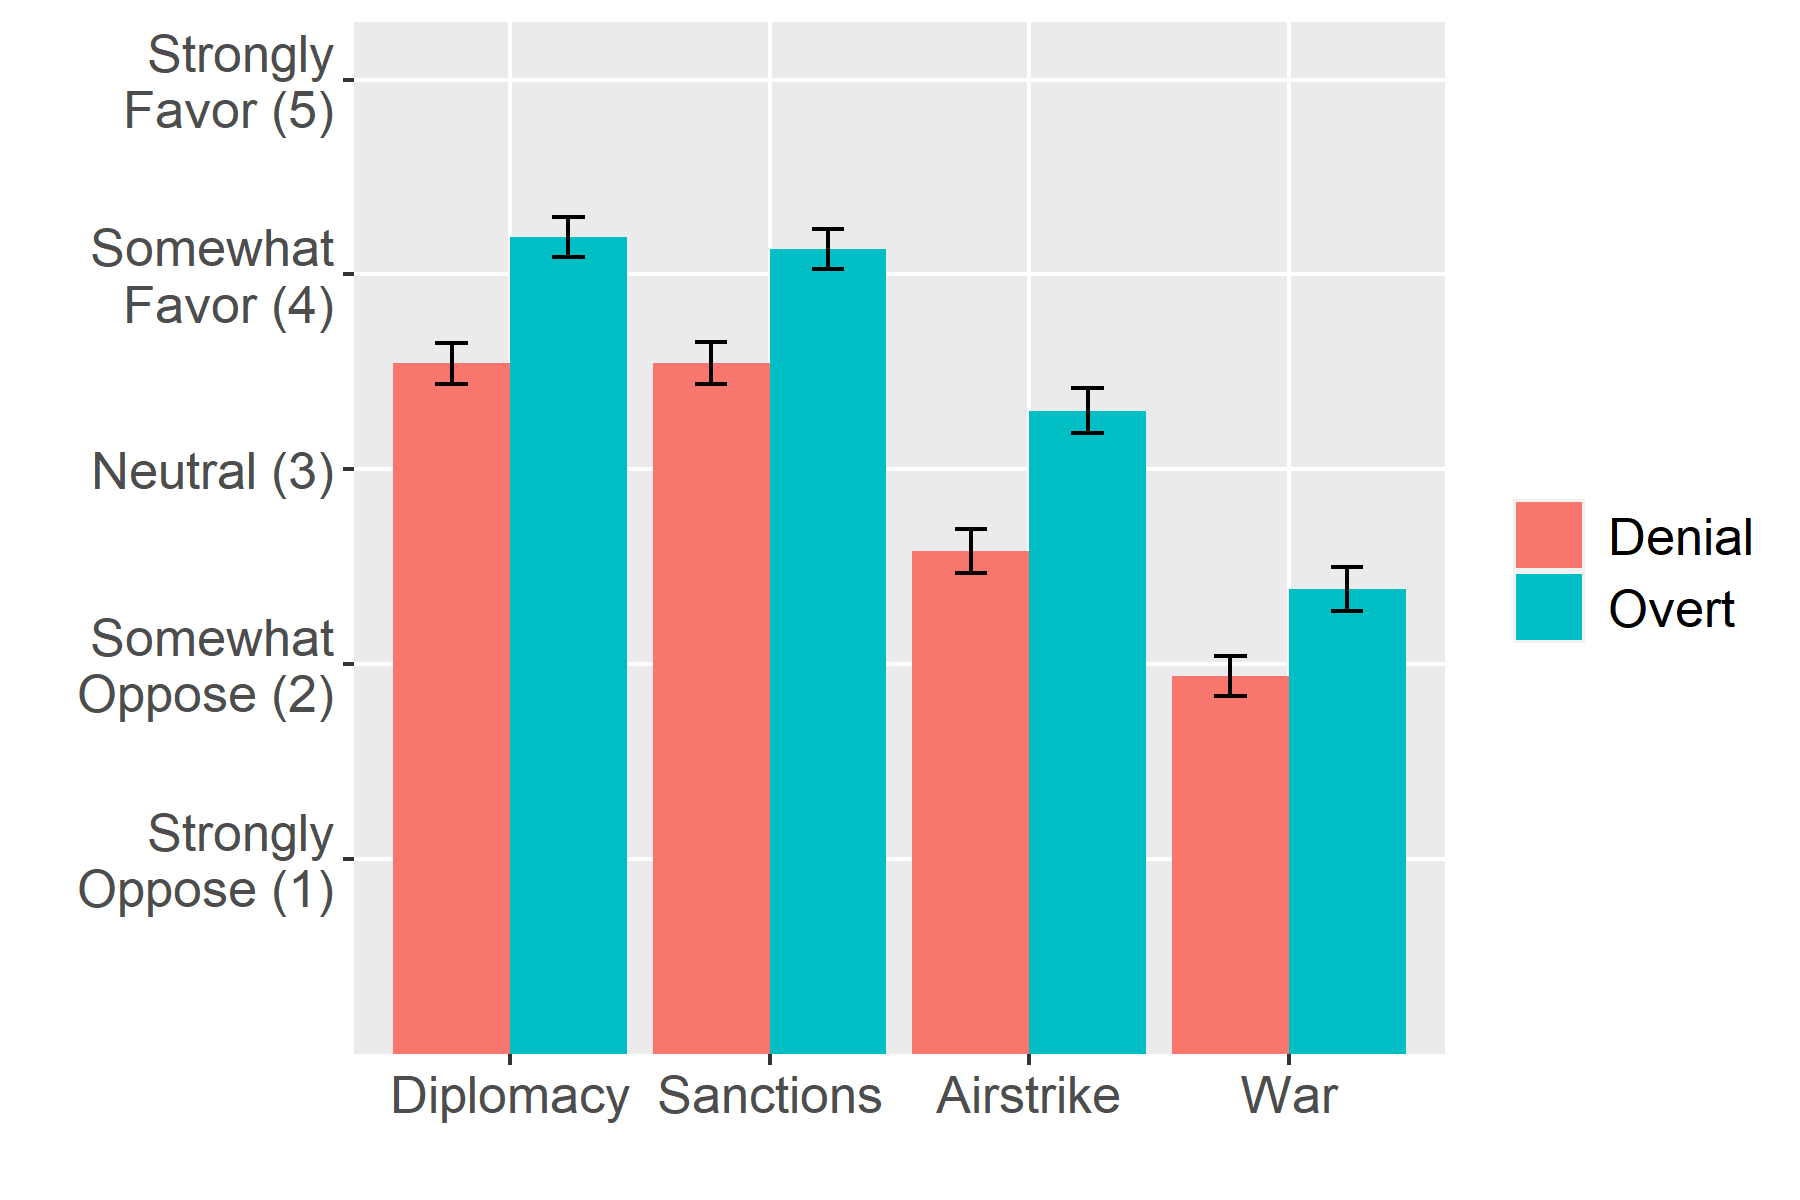
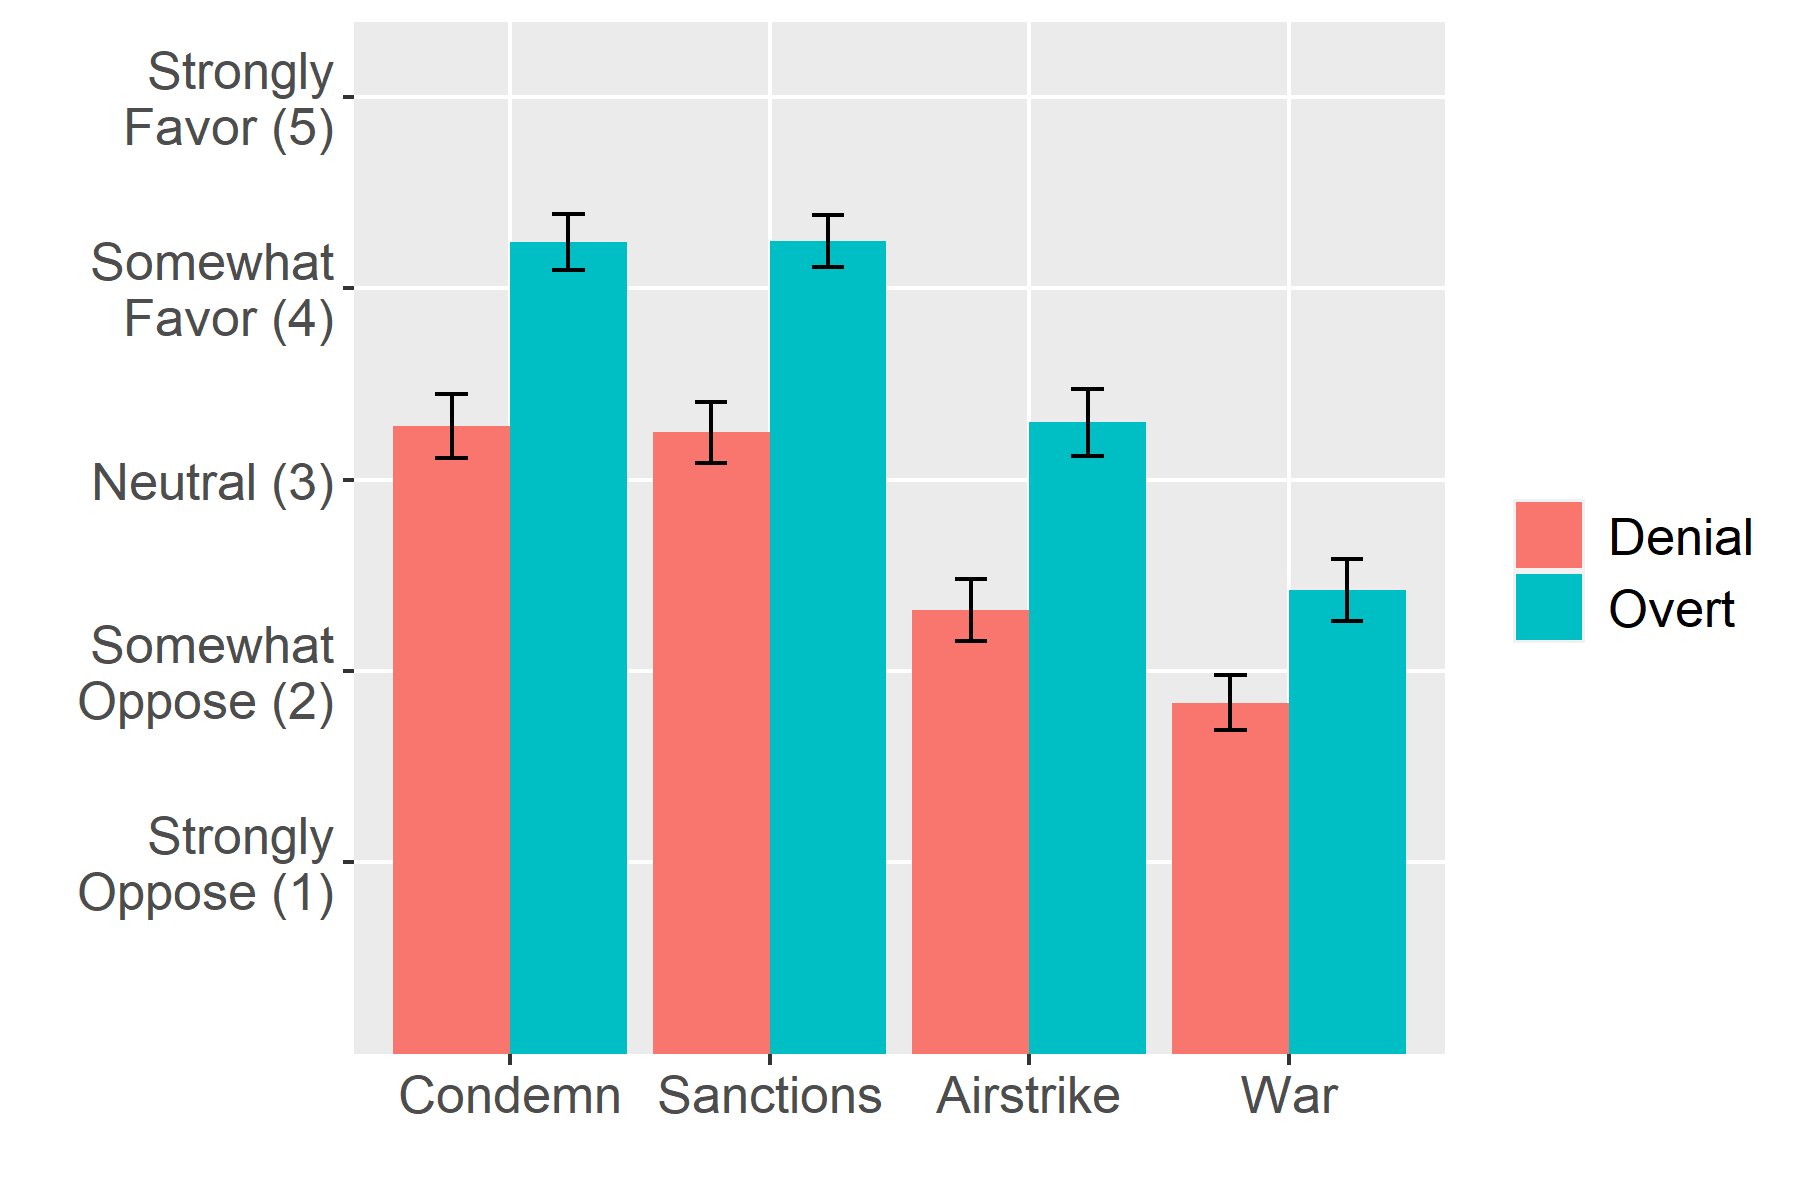
Changed diplomacy to condemn in barplots

diff --git a/Figures/Iran_Sum.html b/Figures/Iran_Sum.html
@@ -1,5 +1,5 @@
 
-<table style="text-align:center; width: 25%"><tr><td colspan="7" style="border-bottom: 1px solid black"></td></tr><tr><td style="text-align:left">Statistic</td><td>N</td><td>Mean</td><td>Median</td><td>St. Dev.</td><td>Min</td><td>Max</td></tr>
+<table style="text-align:center"><tr><td colspan="7" style="border-bottom: 1px solid black"></td></tr><tr><td style="text-align:left">Statistic</td><td>N</td><td>Mean</td><td>Median</td><td>St. Dev.</td><td>Min</td><td>Max</td></tr>
 <tr><td colspan="7" style="border-bottom: 1px solid black"></td></tr><tr><td style="text-align:left">Escalation Preference</td><td>946</td><td>55.05</td><td>56.36</td><td>23.80</td><td>0.00</td><td>100.00</td></tr>
 <tr><td style="text-align:left">Denial</td><td>954</td><td>0.50</td><td>1</td><td>0.50</td><td>0</td><td>1</td></tr>
 <tr><td style="text-align:left">Reputation</td><td>949</td><td>52.89</td><td>50.64</td><td>28.17</td><td>0.00</td><td>100.00</td></tr>

diff --git a/Figures/Qatar_Sum.html b/Figures/Qatar_Sum.html
@@ -1,5 +1,5 @@
 
-<table style="text-align:center; width: 25%"><tr><td colspan="7" style="border-bottom: 1px solid black"></td></tr><tr><td style="text-align:left">Statistic</td><td>N</td><td>Mean</td><td>Median</td><td>St. Dev.</td><td>Min</td><td>Max</td></tr>
+<table style="text-align:center"><tr><td colspan="7" style="border-bottom: 1px solid black"></td></tr><tr><td style="text-align:left">Statistic</td><td>N</td><td>Mean</td><td>Median</td><td>St. Dev.</td><td>Min</td><td>Max</td></tr>
 <tr><td colspan="7" style="border-bottom: 1px solid black"></td></tr><tr><td style="text-align:left">Escalation Preference</td><td>473</td><td>53.07</td><td>51.13</td><td>26.01</td><td>0.00</td><td>100.00</td></tr>
 <tr><td style="text-align:left">Denial</td><td>477</td><td>0.49</td><td>0</td><td>0.50</td><td>0</td><td>1</td></tr>
 <tr><td style="text-align:left">Reputation</td><td>475</td><td>53.74</td><td>50.64</td><td>29.10</td><td>0.00</td><td>100.00</td></tr>
